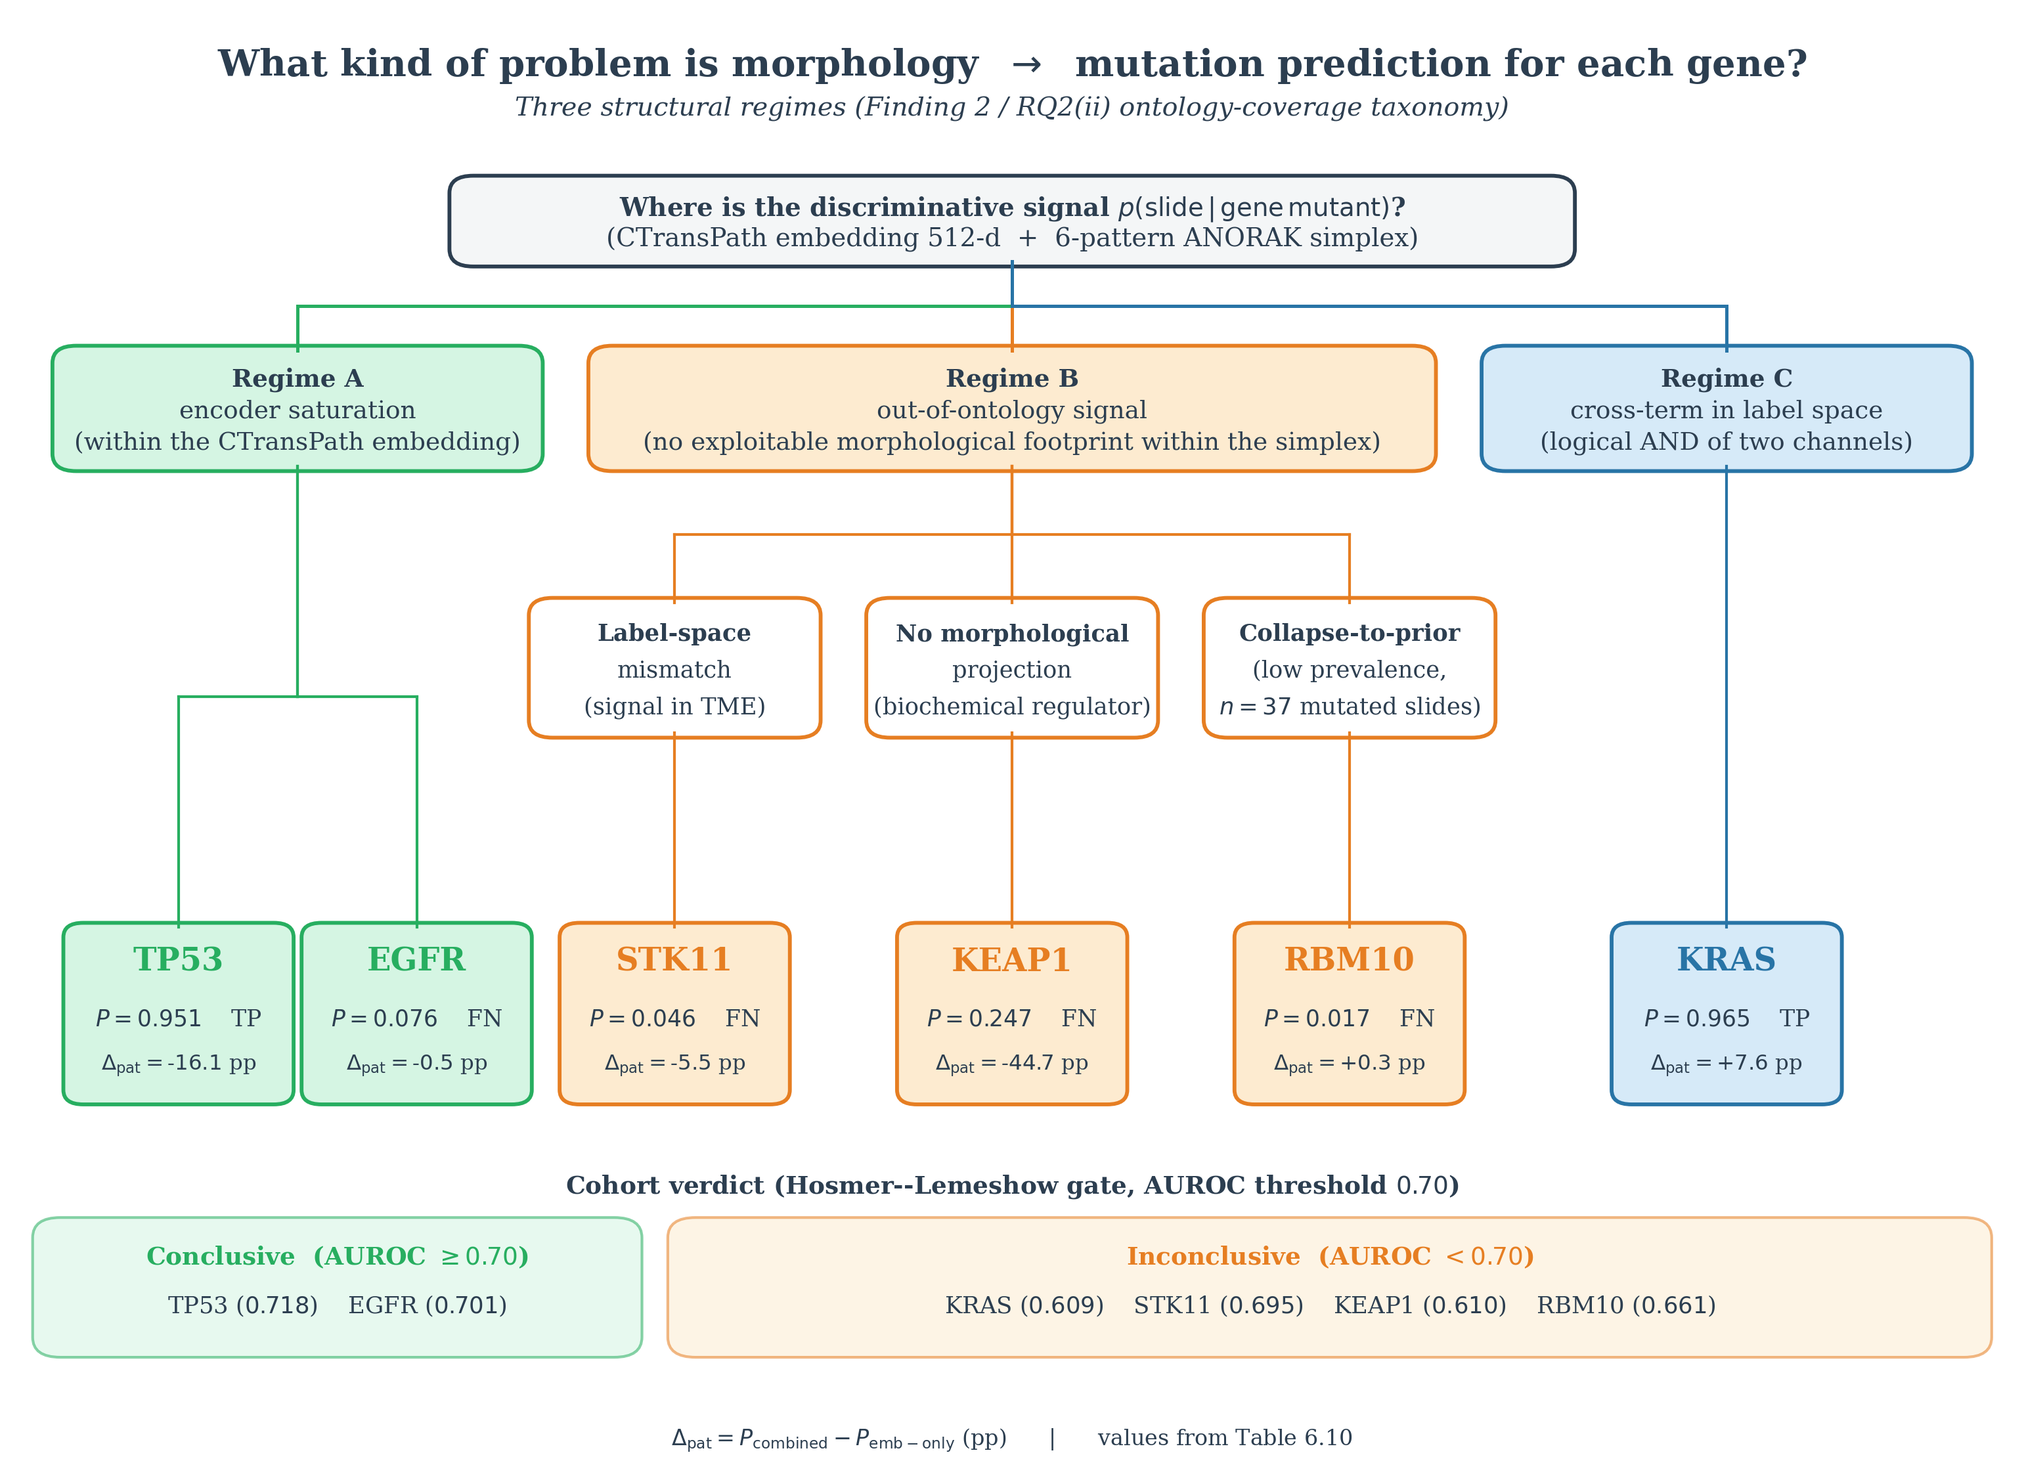
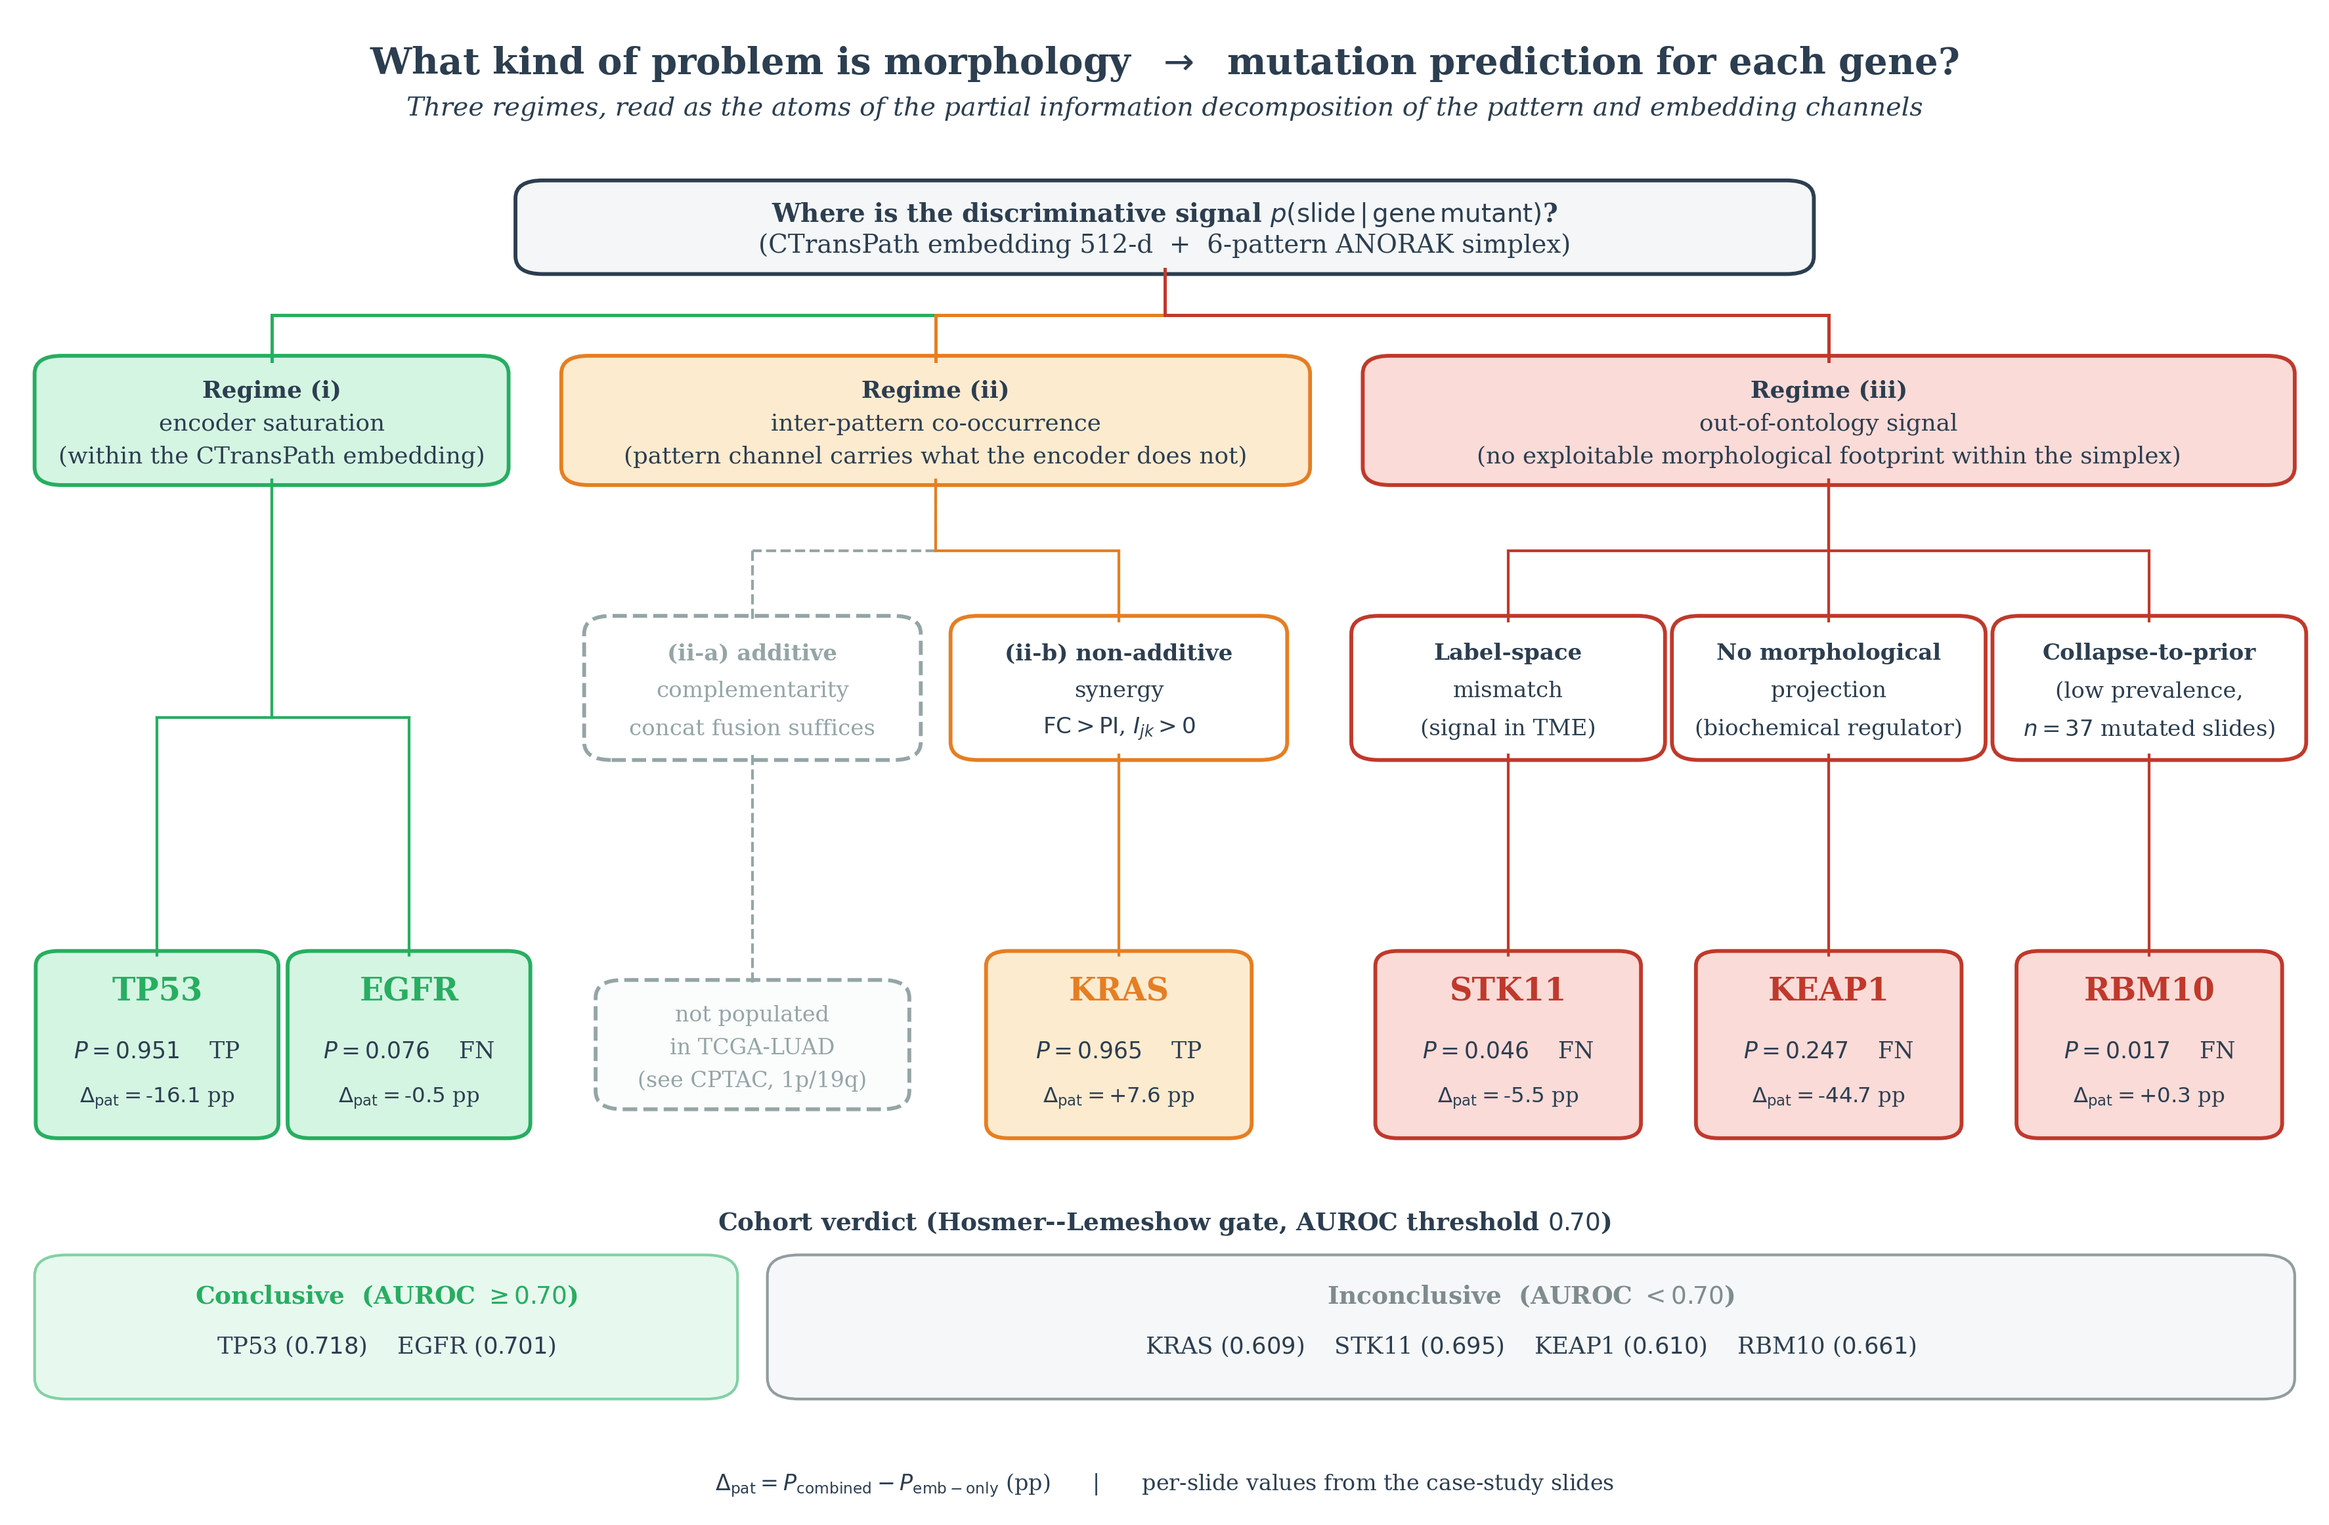
figure 2: number the regimes as the text does and show the (ii-a)/(ii-b) split
signal_tree was the only main figure with no generator; it was a static PNG
whose source lived in the thesis tree. Ported it to figures/gen_signal_tree.py
so it is reproducible like the other seven, with four corrections:

- Regimes are labelled (i)/(ii)/(iii) as in Methods and tab:pid_regimes,
  not A/B/C, and the columns now run in numerical order. The old lettering
  put out-of-ontology second and the cross-term third, inverting the
  (ii)/(iii) order used everywhere in the text.
- Regime (ii) now shows both sub-forms. KRAS sits under (ii-b); (ii-a) is
  drawn empty and labelled, since no LUAD gene populates it but glioma
  1p/19q does and the CPTAC refit returns it as a point estimate.
- Regime colours follow the palette declared in gen_domain_translation.py
  (green/orange/red). The old figure painted out-of-ontology orange and the
  cross-term blue, so a regime changed colour between figures. The
  Inconclusive verdict band is now neutral grey because it mixes (ii-b)
  and (iii) and must not borrow either colour.
- Footer no longer cites 'Table 6.10' (thesis numbering).

Per-gene values (P, outcome, delta_pat) are unchanged. Caption updated to
match.

diff --git a/figures/gen_signal_tree.py b/figures/gen_signal_tree.py
@@ -1,0 +1,276 @@
+"""Generate the three-regime taxonomy tree (Figure 2 of Paper 1).
+
+  Root: "Where is the discriminative signal p(slide | gene mutant)?"
+   |
+   +-- Regime (i)   encoder saturation                  -> TP53, EGFR
+   |
+   +-- Regime (ii)  inter-pattern co-occurrence
+   |     +-- (ii-a) additive complementarity            -> (not populated here)
+   |     +-- (ii-b) non-additive synergy                -> KRAS
+   |
+   +-- Regime (iii) out-of-ontology
+         +-- Label-space mismatch                       -> STK11
+         +-- No morphological projection                -> KEAP1
+         +-- Collapse-to-prior                          -> RBM10
+
+Ported from the thesis generator, with four corrections so the figure
+speaks the same language as the manuscript:
+
+  1. Regimes are numbered (i)/(ii)/(iii) as in the Methods and in
+     tab:pid_regimes, not lettered A/B/C, and the columns now run in
+     numerical order left to right. The thesis lettering put
+     out-of-ontology second and the cross-term third, which inverts
+     the (ii)/(iii) order used everywhere in the text.
+  2. Regime (ii) is split into its additive sub-form (ii-a) and its
+     non-additive sub-form (ii-b). Only (ii-b) is populated in
+     TCGA-LUAD; (ii-a) is drawn empty and labelled as such, because it
+     is the sub-form the CPTAC refit and the glioma 1p/19q case read.
+  3. Regime colours follow the palette declared in
+     gen_domain_translation.py -- green saturation, orange
+     co-occurrence, red out-of-ontology. The thesis figure painted
+     out-of-ontology orange and the cross-term blue, so the same
+     regime carried different colours in different figures.
+  4. The footer no longer cites "Table 6.10" (thesis numbering).
+
+Per-gene slide-level values (P, outcome, Delta_pat) are unchanged from
+the thesis figure.
+
+Run:  python gen_signal_tree.py
+"""
+from __future__ import annotations
+
+import os
+
+import matplotlib
+
+matplotlib.use("Agg")
+import matplotlib.pyplot as plt
+from matplotlib.patches import FancyBboxPatch
+
+plt.rcParams.update({
+    "font.family": "serif",
+    "font.size": 10,
+    "figure.dpi": 300,
+    "text.usetex": False,
+})
+
+HERE = os.path.dirname(os.path.abspath(__file__))
+
+# Regime palette, shared with gen_domain_translation.py:
+#   green = encoder saturation, orange = co-occurrence, red = out-of-ontology.
+GREEN_BG, GREEN_EC = "#D5F5E3", "#27AE60"
+ORANGE_BG, ORANGE_EC = "#FDEBD0", "#E67E22"
+RED_BG, RED_EC = "#FADBD8", "#C0392B"
+GREY_BG, GREY_EC = "#F4F6F7", "#7F8C8D"
+DARK = "#2C3E50"
+MUTED = "#95A5A6"
+
+fig, ax = plt.subplots(figsize=(15.0, 9.8))
+ax.set_xlim(0, 100)
+ax.set_ylim(0, 100)
+ax.axis("off")
+
+
+def node_box(cx, cy, w, h, text_lines, fc, ec, fontsize=9,
+             bold_first=False, ls="solid", text_color=None):
+    ax.add_patch(FancyBboxPatch(
+        (cx - w / 2, cy - h / 2), w, h,
+        boxstyle="round,pad=0.35,rounding_size=1.2",
+        facecolor=fc, edgecolor=ec, linewidth=1.4, linestyle=ls,
+    ))
+    n = max(len(text_lines), 1)
+    line_h = (h - 1.4) / n
+    top = cy + h / 2 - 0.9
+    for i, line in enumerate(text_lines):
+        y = top - line_h * (i + 0.5)
+        weight = "bold" if (i == 0 and bold_first) else "normal"
+        ax.text(cx, y, line, ha="center", va="center", fontsize=fontsize,
+                color=text_color or DARK, fontweight=weight)
+
+
+def edge_l(x0, y0, x1, y1, color, width=1.0, ls="solid"):
+    ymid = (y0 + y1) / 2
+    ax.plot([x0, x0], [y0, ymid], color=color, linewidth=width, linestyle=ls)
+    ax.plot([x0, x1], [ymid, ymid], color=color, linewidth=width, linestyle=ls)
+    ax.plot([x1, x1], [ymid, y1], color=color, linewidth=width, linestyle=ls)
+
+
+def vline(cx, y_top, y_bot, color, width=1.0, ls="solid"):
+    ax.plot([cx, cx], [y_top, y_bot], color=color, linewidth=width,
+            linestyle=ls)
+
+
+# --------------------------------------------------------------------
+# Title
+# --------------------------------------------------------------------
+ax.text(50, 97.0,
+        "What kind of problem is morphology  $\\rightarrow$  mutation "
+        "prediction for each gene?",
+        ha="center", va="center", fontsize=13.5, fontweight="bold",
+        color=DARK)
+ax.text(50, 94.0,
+        "Three regimes, read as the atoms of the partial information "
+        "decomposition of the pattern and embedding channels",
+        ha="center", va="center", fontsize=9.5, color=DARK, style="italic")
+
+# --------------------------------------------------------------------
+# Layout
+# --------------------------------------------------------------------
+ROOT_Y, L1_Y, L2_Y, L3_Y, BAND_Y = 86.0, 73.0, 55.0, 31.0, 12.5
+
+I_X = 11.0                      # regime (i)
+II_X = 40.0                     # regime (ii)
+III_X = 79.0                    # regime (iii)
+
+I_TP53_X, I_EGFR_X = 6.0, 17.0
+IIA_X, IIB_X = 32.0, 48.0       # (ii) sub-forms
+III_M1_X, III_M2_X, III_M3_X = 65.0, 79.0, 93.0
+
+# --------------------------------------------------------------------
+# Level 0: root
+# --------------------------------------------------------------------
+node_box(50, ROOT_Y, 56, 5.6,
+         ["Where is the discriminative signal "
+          "$p(\\mathrm{slide}\\,|\\,\\mathrm{gene\\,mutant})$?",
+          "(CTransPath embedding 512-d  +  6-pattern ANORAK simplex)"],
+         fc=GREY_BG, ec=DARK, fontsize=9.3, bold_first=True)
+
+# --------------------------------------------------------------------
+# Level 1: the three regimes, in numerical order
+# --------------------------------------------------------------------
+node_box(I_X, L1_Y, 20, 8,
+         ["Regime (i)",
+          "encoder saturation",
+          "(within the CTransPath embedding)"],
+         fc=GREEN_BG, ec=GREEN_EC, fontsize=8.6, bold_first=True)
+node_box(II_X, L1_Y, 32, 8,
+         ["Regime (ii)",
+          "inter-pattern co-occurrence",
+          "(pattern channel carries what the encoder does not)"],
+         fc=ORANGE_BG, ec=ORANGE_EC, fontsize=8.6, bold_first=True)
+node_box(III_X, L1_Y, 40, 8,
+         ["Regime (iii)",
+          "out-of-ontology signal",
+          "(no exploitable morphological footprint within the simplex)"],
+         fc=RED_BG, ec=RED_EC, fontsize=8.6, bold_first=True)
+
+edge_l(50, ROOT_Y - 2.8, I_X, L1_Y + 4, GREEN_EC, width=1.2)
+edge_l(50, ROOT_Y - 2.8, II_X, L1_Y + 4, ORANGE_EC, width=1.2)
+edge_l(50, ROOT_Y - 2.8, III_X, L1_Y + 4, RED_EC, width=1.2)
+
+# --------------------------------------------------------------------
+# Level 2: sub-forms of (ii) and sub-mechanisms of (iii)
+# --------------------------------------------------------------------
+node_box(IIA_X, L2_Y, 14, 9,
+         ["(ii-a) additive",
+          "complementarity",
+          "concat fusion suffices"],
+         fc="white", ec=MUTED, fontsize=8.2, bold_first=True, ls="dashed",
+         text_color=MUTED)
+node_box(IIB_X, L2_Y, 14, 9,
+         ["(ii-b) non-additive",
+          "synergy",
+          "$\\mathrm{FC}>\\mathrm{PI}$, $I_{jk}>0$"],
+         fc="white", ec=ORANGE_EC, fontsize=8.2, bold_first=True)
+
+node_box(III_M1_X, L2_Y, 13, 9,
+         ["Label-space", "mismatch", "(signal in TME)"],
+         fc="white", ec=RED_EC, fontsize=8.2, bold_first=True)
+node_box(III_M2_X, L2_Y, 13, 9,
+         ["No morphological", "projection", "(biochemical regulator)"],
+         fc="white", ec=RED_EC, fontsize=8.2, bold_first=True)
+node_box(III_M3_X, L2_Y, 13, 9,
+         ["Collapse-to-prior", "(low prevalence,", "$n=37$ mutated slides)"],
+         fc="white", ec=RED_EC, fontsize=8.2, bold_first=True)
+
+edge_l(II_X, L1_Y - 4, IIA_X, L2_Y + 4.5, MUTED, ls="dashed")
+edge_l(II_X, L1_Y - 4, IIB_X, L2_Y + 4.5, ORANGE_EC)
+edge_l(III_X, L1_Y - 4, III_M1_X, L2_Y + 4.5, RED_EC)
+vline(III_M2_X, L1_Y - 4, L2_Y + 4.5, RED_EC)
+edge_l(III_X, L1_Y - 4, III_M3_X, L2_Y + 4.5, RED_EC)
+
+# (ii-a) carries no gene in this cohort; say so where its leaf would be.
+node_box(IIA_X, L3_Y, 13, 8,
+         ["not populated", "in TCGA-LUAD", "(see CPTAC, 1p/19q)"],
+         fc="#FBFCFC", ec=MUTED, fontsize=8.0, ls="dashed", text_color=MUTED)
+vline(IIA_X, L2_Y - 4.5, L3_Y + 4.0, MUTED, ls="dashed")
+
+
+# --------------------------------------------------------------------
+# Level 3: gene leaves
+# --------------------------------------------------------------------
+def gene_leaf(cx, gene, p_value, outcome, dpat, fc, ec, w=11, h=12):
+    ax.add_patch(FancyBboxPatch(
+        (cx - w / 2, L3_Y - h / 2), w, h,
+        boxstyle="round,pad=0.3,rounding_size=1.0",
+        facecolor=fc, edgecolor=ec, linewidth=1.4,
+    ))
+    ax.text(cx, L3_Y + h / 2 - 2.4, gene, ha="center", va="center",
+            fontsize=11.5, fontweight="bold", color=ec)
+    ax.text(cx, L3_Y - 0.4, r"$P = %s$    %s" % (p_value, outcome),
+            ha="center", va="center", fontsize=8.3, color=DARK)
+    ax.text(cx, L3_Y - h / 2 + 2.4,
+            r"$\Delta_{\mathrm{pat}} = %s$ pp" % dpat,
+            ha="center", va="center", fontsize=7.8, color=DARK)
+
+
+gene_leaf(I_TP53_X, "TP53", "0.951", "TP", "$-$16.1", GREEN_BG, GREEN_EC,
+          w=10)
+gene_leaf(I_EGFR_X, "EGFR", "0.076", "FN", "$-$0.5", GREEN_BG, GREEN_EC,
+          w=10)
+gene_leaf(IIB_X, "KRAS", "0.965", "TP", "$+$7.6", ORANGE_BG, ORANGE_EC)
+gene_leaf(III_M1_X, "STK11", "0.046", "FN", "$-$5.5", RED_BG, RED_EC)
+gene_leaf(III_M2_X, "KEAP1", "0.247", "FN", "$-$44.7", RED_BG, RED_EC)
+gene_leaf(III_M3_X, "RBM10", "0.017", "FN", "$+$0.3", RED_BG, RED_EC)
+
+edge_l(I_X, L1_Y - 4, I_TP53_X, L3_Y + 6.0, GREEN_EC)
+edge_l(I_X, L1_Y - 4, I_EGFR_X, L3_Y + 6.0, GREEN_EC)
+vline(IIB_X, L2_Y - 4.5, L3_Y + 6.0, ORANGE_EC)
+vline(III_M1_X, L2_Y - 4.5, L3_Y + 6.0, RED_EC)
+vline(III_M2_X, L2_Y - 4.5, L3_Y + 6.0, RED_EC)
+vline(III_M3_X, L2_Y - 4.5, L3_Y + 6.0, RED_EC)
+
+# --------------------------------------------------------------------
+# Cohort verdict band
+# --------------------------------------------------------------------
+ax.text(50, BAND_Y + 6.5,
+        r"Cohort verdict (Hosmer--Lemeshow gate, AUROC threshold $0.70$)",
+        ha="center", va="center", fontsize=9, color=DARK, fontweight="bold")
+
+ax.add_patch(FancyBboxPatch(
+    (1.0, BAND_Y - 5), 30, 9,
+    boxstyle="round,pad=0.35,rounding_size=1.4",
+    facecolor=GREEN_BG, edgecolor=GREEN_EC, linewidth=1.0, alpha=0.55))
+ax.text(16, BAND_Y + 1.6, r"Conclusive  (AUROC $\geq 0.70$)",
+        ha="center", va="center", fontsize=9, color=GREEN_EC,
+        fontweight="bold")
+ax.text(16, BAND_Y - 1.8, r"TP53 ($0.718$)    EGFR ($0.701$)",
+        ha="center", va="center", fontsize=8.5, color=DARK)
+
+# Neutral grey: this band mixes regimes (ii-b) and (iii), so it must not
+# borrow either regime colour.
+ax.add_patch(FancyBboxPatch(
+    (33.0, BAND_Y - 5), 66, 9,
+    boxstyle="round,pad=0.35,rounding_size=1.4",
+    facecolor=GREY_BG, edgecolor=GREY_EC, linewidth=1.0, alpha=0.85))
+ax.text(66, BAND_Y + 1.6, r"Inconclusive  (AUROC $< 0.70$)",
+        ha="center", va="center", fontsize=9, color=GREY_EC,
+        fontweight="bold")
+ax.text(66, BAND_Y - 1.8,
+        r"KRAS ($0.609$)    STK11 ($0.695$)    "
+        r"KEAP1 ($0.610$)    RBM10 ($0.661$)",
+        ha="center", va="center", fontsize=8.5, color=DARK)
+
+# --------------------------------------------------------------------
+# Footer
+# --------------------------------------------------------------------
+ax.text(50, 1.4,
+        r"$\Delta_{\mathrm{pat}} = P_{\mathrm{combined}} - "
+        r"P_{\mathrm{emb-only}}$ (pp)      |      "
+        r"per-slide values from the case-study slides",
+        ha="center", va="center", fontsize=8, color=DARK)
+
+out = os.path.join(HERE, "signal_tree.png")
+plt.savefig(out, bbox_inches="tight", dpi=300, facecolor="white")
+plt.close()
+print("wrote", out)

diff --git a/sections/03_results.tex b/sections/03_results.tex
@@ -58,16 +58,22 @@ Best per gene in bold.}
   \caption{\textbf{Three-regime taxonomy of mutation-predictive signal
   on TCGA-LUAD.} For each of the six target genes, the cohort-level
   AUROC under five baselines is decomposed into three regimes:
-  \emph{encoder saturation} (TP53, EGFR; the \ctranspath{} embedding
+  \emph{encoder saturation}~(i) (TP53, EGFR; the \ctranspath{} embedding
   alone already reaches the cohort ceiling, so the 6-d ANORAK pattern
   channel adds $\leq 0.02$ AUROC), \emph{inter-pattern
-  co-occurrence} (KRAS; only an aggregator capable of representing
+  co-occurrence}~(ii) (KRAS; only an aggregator capable of representing
   positive interactions recovers the lepidic$\times$solid joint
   activation that maps to the invasive mucinous adenocarcinoma
-  phenotype), and \emph{out-of-ontology} (STK11, KEAP1; the predictive signal
+  phenotype), and \emph{out-of-ontology}~(iii) (STK11, KEAP1; the predictive signal
   lives in the immune microenvironment or in a biochemical state with
   no H\&E correlate), with RBM10 a distinct estimation-floor case
-  (non-empty pattern-side atoms unestimable at $n_+\!=\!37$). The
+  (non-empty pattern-side atoms unestimable at $n_+\!=\!37$).
+  Regime~(ii) is drawn with both of its sub-forms: KRAS occupies the
+  non-additive one~(ii-b), while the additive one~(ii-a), in which
+  concat fusion alone recovers the signal, is not populated in this
+  cohort and is shown empty---it is the sub-form that glioma 1p/19q
+  occupies (\cref{tab:glioma_domainb}) and that the CPTAC refit returns
+  as a point estimate (\cref{tab:cptac_refit}). The
   three regimes are the
   redundant, synergistic and unique atoms of the partial
   information decomposition of the pattern and embedding channels
